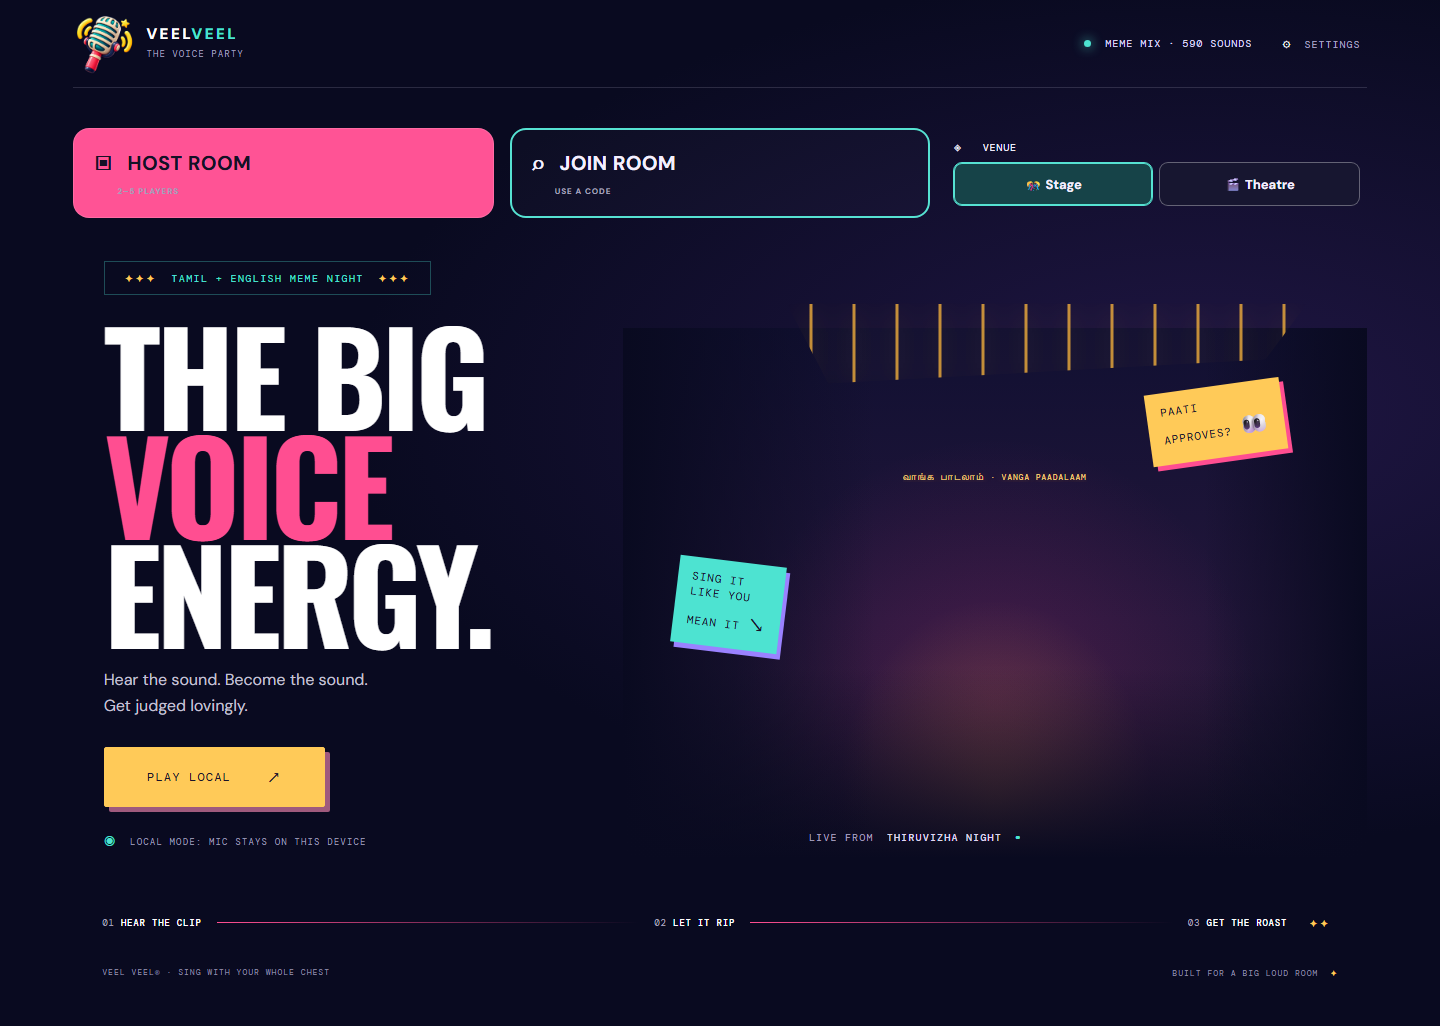
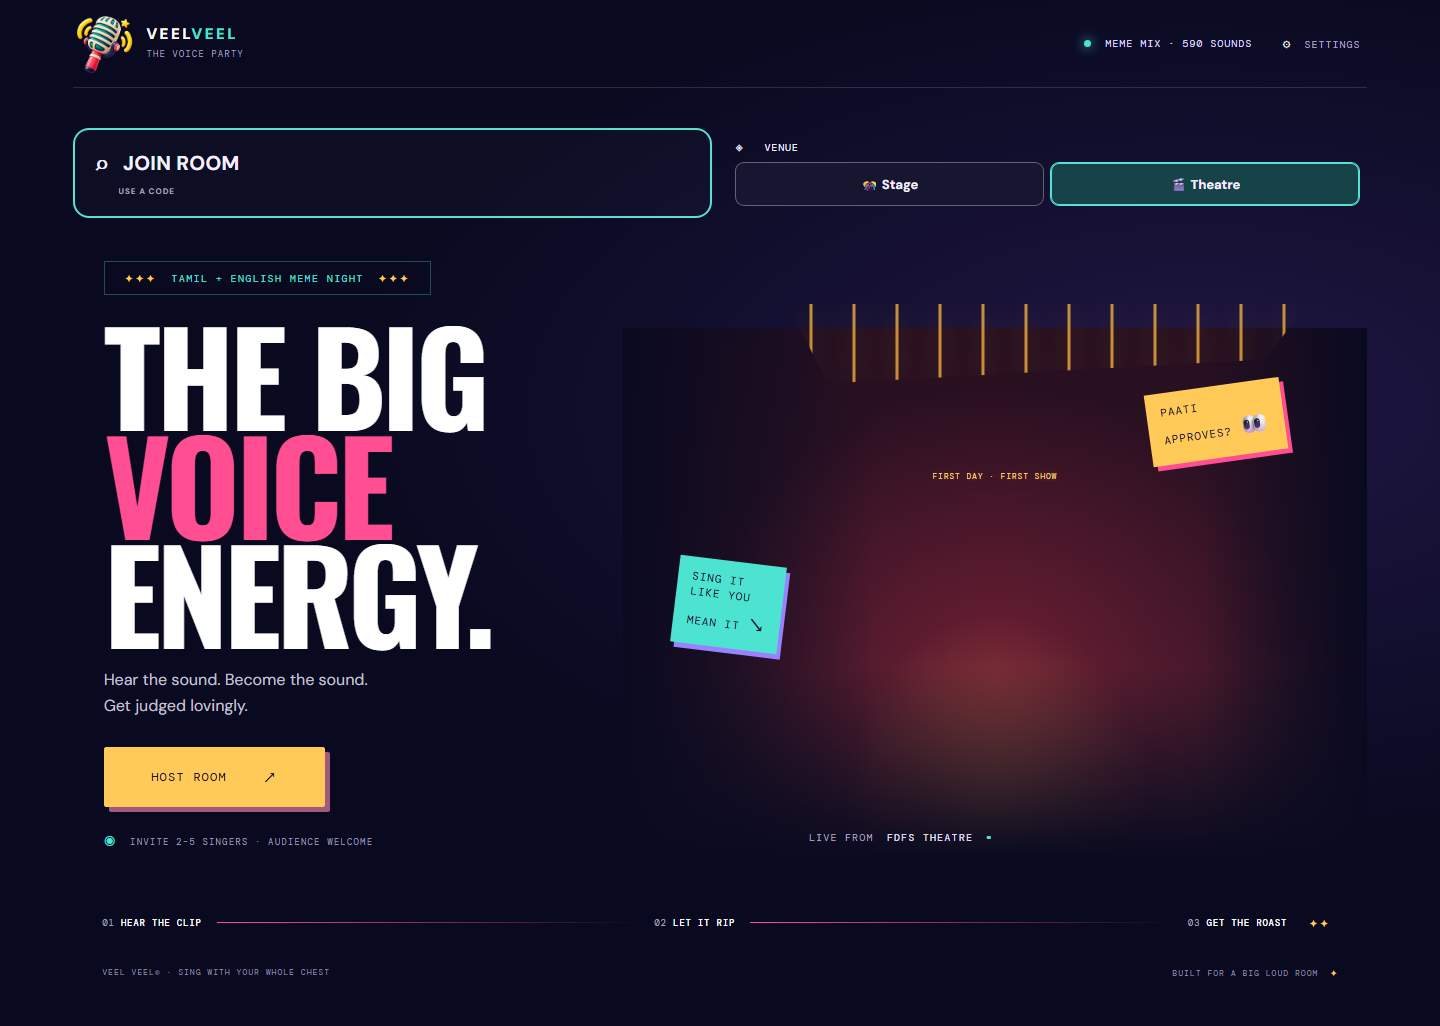
Make room play the home page entry

diff --git a/apps/veel-veel/src/ui/styles.css b/apps/veel-veel/src/ui/styles.css
@@ -2042,3 +2042,10 @@ select:focus-visible {
 .home-actions .mode-link:first-child { background:#ff5395; color:#141126; }
 .home-actions .mode-link:nth-child(2) { border:2px solid #56e2d2; }
 .arena-canvas{position:relative}.arena-reaction{position:absolute;z-index:2;top:18px;left:50%;transform:translateX(-50%);max-width:90%;padding:12px 24px;border-radius:14px;font:800 clamp(14px,2vw,24px) 'DM Sans',sans-serif;text-align:center;box-shadow:0 12px 30px #0005;white-space:nowrap}.arena-reaction small{display:block;font-size:12px;font-weight:500;margin-top:4px}.arena-reaction.ovation{background:#ffda72;color:#282039}.arena-reaction.tomato{background:#ff6581;color:#22132c}.home-actions{display:grid;grid-template-columns:repeat(3,minmax(0,1fr));gap:16px;border:0;padding:18px 0}.home-actions .mode-link{border:1px solid #ffffff25;border-radius:16px;min-height:88px!important;padding:20px;font:700 20px 'DM Sans',sans-serif;letter-spacing:.02em;text-align:left;background:#ffffff05}.home-actions .mode-link small{letter-spacing:.12em;margin-top:10px}.home-actions .mode-link:hover{box-shadow:0 0 0 2px #56e2d2;transform:translateY(-2px)}.home-actions .mode-link:focus-visible{outline:3px solid #ffcd57;outline-offset:4px}.round-intermission{display:flex;align-items:center;gap:18px;flex-wrap:wrap;padding:22px;background:#142b35;border:1px solid #56e2d2;border-radius:16px}.round-intermission strong{color:#56e2d2;font-size:24px}.round-intermission span{color:#c6d3da}.round-intermission button{margin-left:auto;background:#56e2d2;border:0;border-radius:10px;color:#11252f;min-height:48px;padding:12px 22px;font-weight:700}@media(max-width:620px){.home-actions{grid-template-columns:1fr 1fr}.home-actions .theme-trigger{grid-column:1/-1}.arena-reaction{top:10px;padding:8px 14px}.arena-reaction small{font-size:10px}.round-intermission button{margin-left:0}}
+
+.home-actions { grid-template-columns: minmax(0, 1fr) minmax(0, 1fr); }
+.home-actions .mode-link:first-child { background: #ffffff05; color: #f4efff; border: 2px solid #56e2d2; }
+@media (max-width: 620px) {
+  .home-actions { grid-template-columns: 1fr; }
+  .home-actions .mode-link { width: 100%; }
+}

diff --git a/apps/veel-veel/src/ui/App.tsx b/apps/veel-veel/src/ui/App.tsx
@@ -376,15 +376,6 @@ export default function App() {
     }
   }
 
-  async function beginSetup() {
-    if (!pack?.clips.length) {
-      setToast(packError || 'Sound pack is loading.');
-      return;
-    }
-    setScreen('setup');
-    if (!mic) await openMic();
-  }
-
   function enterLobby() {
     if (!mic || !calibrated || !testSaid) {
       void openMic();
@@ -635,12 +626,6 @@ export default function App() {
           <section className="home-actions">
             <button
               className="mode-link"
-              onClick={() => { window.location.href = '/host'; }}
-            >
-              ▣ &nbsp; HOST ROOM <small>2–5 PLAYERS</small>
-            </button>
-            <button
-              className="mode-link"
               onClick={() => { window.location.href = '/join'; }}
             >
               ⌕ &nbsp; JOIN ROOM <small>USE A CODE</small>
@@ -670,12 +655,12 @@ export default function App() {
                 <br />
                 Get judged lovingly.
               </p>
-              <button className="btn btn-primary btn-xl" onClick={() => void beginSetup()}>
-                {en.playLocal}
+              <button className="btn btn-primary btn-xl" onClick={() => { window.location.href = '/host'; }}>
+                HOST ROOM
                 <span>↗</span>
               </button>
               <p className="privacy-note">
-                <span>◉</span> LOCAL MODE: MIC STAYS ON THIS DEVICE
+                <span>◉</span> INVITE 2–5 SINGERS · AUDIENCE WELCOME
               </p>
               {packError && <p className="error-note">{packError}</p>}
             </div>

diff --git a/e2e/home-navigation.spec.ts b/e2e/home-navigation.spec.ts
@@ -1,0 +1,25 @@
+import { expect, test } from '@playwright/test';
+
+test('home leads with room play and remembers the venue', async ({ page }) => {
+  await page.setViewportSize({ width: 1440, height: 980 });
+  await page.goto('/?quality=low&e2e=1');
+  await expect(page.getByRole('button', { name: /PLAY LOCAL/ })).toHaveCount(0);
+  await expect(page.getByRole('button', { name: /HOST ROOM/ })).toBeVisible();
+  await page.getByRole('button', { name: /Theatre/ }).click();
+  await expect(page.getByRole('button', { name: /Theatre/ })).toHaveAttribute('aria-pressed', 'true');
+  await page.reload();
+  await expect(page.getByRole('button', { name: /Theatre/ })).toHaveAttribute('aria-pressed', 'true');
+  await page.screenshot({ path: 'docs/screens/01-home.png', fullPage: true });
+  await page.getByRole('button', { name: /HOST ROOM/ }).click();
+  await expect(page).toHaveURL(/\/host$/);
+  await expect(page.getByRole('button', { name: /CREATE ROOM/ })).toBeVisible();
+});
+
+test('room-first home layout fits a phone', async ({ page }) => {
+  await page.setViewportSize({ width: 390, height: 844 });
+  await page.goto('/?quality=low&e2e=1');
+  await expect(page.getByRole('button', { name: /HOST ROOM/ })).toBeVisible();
+  await expect(page.getByRole('button', { name: /JOIN ROOM/ })).toBeVisible();
+  await expect.poll(() => page.evaluate(() => document.documentElement.scrollWidth <= window.innerWidth)).toBe(true);
+  await page.screenshot({ path: '.cache/mobile-home.png', fullPage: true });
+});

diff --git a/apps/veel-veel/src/content/strings/ta.ts b/apps/veel-veel/src/content/strings/ta.ts
@@ -1,6 +1,5 @@
 export const ta = {
   appName: 'வீல் வீல்',
-  playLocal: 'உள்ளூரில் விளையாடு',
   hostRoom: 'அறையைத் தொடங்கு',
   joinRoom: 'அறையில் சேர்',
   sayTest: '“வீல் வீல்” என்று சொல்லுங்கள்',

diff --git a/apps/veel-veel/src/content/strings/en.ts b/apps/veel-veel/src/content/strings/en.ts
@@ -1,6 +1,5 @@
 export const en = {
   appName: 'Veel Veel',
-  playLocal: 'PLAY LOCAL',
   hostRoom: 'HOST ROOM',
   joinRoom: 'JOIN ROOM',
   dailyStage: 'DAILY STAGE',

diff --git a/docs/STATUS.md b/docs/STATUS.md
@@ -4,7 +4,7 @@ Updated 9 October 2026.
 
 ## Playable now
 
-- Local Mic Drop with one human and four bots, 5/7/10/15 rounds, microphone setup, DSP scoring, Golden Buzzer, starter Chaos Cards, roast playback and podium.
+- Room play is the home-page entry. The earlier standalone Local Mic Drop implementation remains in code but is no longer offered as a player action.
 - Online room Mic Drop for 2–5 ready singers. The host joins as a singer by default, with an audience-only hosting option. Up to 20 audience members can watch and listen without taking singer seats or microphone permission. Audience members can join after a set starts and reconnect with their room token. Share the room URL or QR code.
 - Automatic reference loading, shared listening, three-second preparation, and simultaneous microphone recording. Each take is played to every room member in sequence; the score follows that take. A shared 6.5-second intermission automatically starts the next round and opens the final podium after the chosen 5, 7, 10 or 15 rounds. The host can skip the intermission. Missing submissions have a bounded timeout.
 - Opt-in voice chat with Always on and Push to talk for hosts, singers and audience. Incoming chat can be muted separately from outgoing voice. Listening/recording pauses voice chat at both client and server; it returns for take playback. Keyboard, pointer, focus and page-visibility release are handled.
@@ -23,7 +23,7 @@ Updated 9 October 2026.
 
 - Twenty-six Vitest checks pass, including real-pack DSP, silence/hiss/DC/click rejection, calibrated hum rejection, and relay tests for minimum players, voice gating, score masking, and replay-before-score ordering.
 - TypeScript and ESLint pass. The production build passes. Arena code remains lazy-loaded (about 134 kB gzip); the main bootstrap is about 130 kB gzip.
-- Two-player and five-player Chromium room tests passed through the public HTTPS endpoint, including automatic singing, host participation, full-room rejection, revealed judge scores and reconnect identity. All four browser tests passed through the public endpoint, including a complete five-round local game.
+- Two-player and five-player Chromium room tests passed through the public HTTPS endpoint, including automatic singing, host participation, full-room rejection, revealed judge scores and reconnect identity. Home navigation now checks the room-first actions and Stage/Theatre choice at desktop and phone widths.
 - The October 5 studio update passed the full local-game browser test and all four room tests against a local production build. The added test feeds background hum through real browser microphone capture and verifies zero points for both singers. Mobile recording screenshots use a 390-pixel viewport; physical-phone testing is still manual.
 - A real Three.js page was rendered and captured at `docs/screens/15-public-home-3d.png` without page errors. This headless software-rendering run measured about 15 FPS; it is not an integrated-GPU or mobile performance result. Hardware FPS/draw-call targets remain unverified.
 

diff --git a/README.md b/README.md
@@ -7,14 +7,14 @@
 Uses the checked-in Docker/Render configuration. The sound-bundle URL and checksum are already configured. Sign into Render, review the free service, and deploy.
 
 
-Veel Veel is a browser voice-mimic party game with a procedural festival/theatre arena, local Mic Drop, and room Mic Drop for up to five singers on a reachable network. The host can sing from the host screen or run the room for phone singers. Room hosts can choose simultaneous singing or turns; each singer sees rhythm, melody, energy and vibe scores.
+Veel Veel is a browser voice-mimic party game with a procedural festival/theatre arena and room Mic Drop for up to five singers. The host joins the lineup by default, or can run the room as an audience member. Guests can sing or watch from their phones. Each singer sees rhythm, melody, energy and vibe scores.
 
 ```powershell
 pnpm install
 pnpm dev
 ```
 
-`pnpm dev` indexes clips into the ignored `packs/` folder, then starts the HTTPS game on port 5173 and a secure room relay on port 8787. Open the local address for **Play Local**, **Host Room**, or **Join Room**. The current workspace pack contains 590 Tamil/English meme clips, including 56 labelled vocal additions; a fresh checkout without local source media creates twelve synthesized demo clips. See [local setup](docs/LOCAL_DEV.md), [sound additions](docs/CLIPS.md), [room protocol](docs/PROTOCOL.md), [hosting](docs/DEPLOY.md), and [current status](docs/STATUS.md).
+`pnpm dev` indexes clips into the ignored `packs/` folder, then starts the HTTPS game on port 5173 and a secure room relay on port 8787. Open the local address for **Host Room** or **Join Room**. The current workspace pack contains 590 Tamil/English meme clips, including 56 labelled vocal additions; a fresh checkout without local source media creates twelve synthesized demo clips. See [local setup](docs/LOCAL_DEV.md), [sound additions](docs/CLIPS.md), [room protocol](docs/PROTOCOL.md), [hosting](docs/DEPLOY.md), and [current status](docs/STATUS.md).
 
 Game checks: `pnpm test`, `pnpm lint`, `pnpm typecheck`, `pnpm build`, `pnpm e2e`.
 

diff --git a/docs/LOCAL_DEV.md b/docs/LOCAL_DEV.md
@@ -2,7 +2,7 @@
 
 1. Install Node.js 20.19+ and pnpm 11, then run `pnpm install`.
 2. Run `pnpm dev`. This indexes the source pack, then starts the HTTPS game on port 5173 and the secure room relay on port 8787. The terminal prints a LAN URL and QR code. Use `pnpm pack:index` alone to refresh the pack.
-3. For local Mic Drop, open `https://localhost:5173/`, choose **Play Local**, connect and calibrate the mic, then complete the voice check.
+3. Open `https://localhost:5173/` and choose **Host Room** or **Join Room**. The earlier standalone Local Mic Drop code remains in the repository for now, but it is no longer offered on the home page.
 4. For a room, open `https://localhost:5173/host` on the host screen and create a code. To play solo or sing alongside friends, tap **Join as Singer**, **Connect Microphone**, then **I Am Ready** on the host screen; **Start the Show** becomes available. The host page also shows a QR and LAN join URL for phones. If the computer has more than one network adapter, choose the address that your phones can reach. Up to five singers total can join, including the host. The host chooses **All at once** or **Take turns**, starts a round, and reveals the four judge scores after the takes arrive.
 5. The development certificate is self-signed. On each phone, open both `https://<LAN-IP>:5173/` and `https://<LAN-IP>:8787/health`, then accept or trust the certificate in the browser/OS before using the mic. Keep ports 5173 and 8787 reachable on your private LAN. Headphones reduce audio bleed.
 

diff --git a/docs/DEPLOY.md b/docs/DEPLOY.md
@@ -40,4 +40,4 @@ Production start: `NODE_ENV=production PORT=8787 node apps/server/dist/index.js`
 
 ## Verification
 
-`pnpm test`, `pnpm lint`, `pnpm typecheck`, `pnpm build`, `pnpm e2e`. To test a deployed endpoint, set `VEEL_E2E_BASE_URL` to its HTTPS URL before running Playwright. Tests cover local play, automatic two-player rounds, five-player rooms, sixth-player rejection, host participation, chat muting, and reconnect identity. Relay tests additionally verify score masking and playback-before-score ordering.
+`pnpm test`, `pnpm lint`, `pnpm typecheck`, `pnpm build`, `pnpm e2e`. To test a deployed endpoint, set `VEEL_E2E_BASE_URL` to its HTTPS URL before running Playwright. Tests cover room-first home navigation, automatic two-player rounds, five-player rooms, sixth-player rejection, host participation, chat muting, and reconnect identity. Relay tests additionally verify score masking and playback-before-score ordering.

diff --git a/docs/DECISIONS.md b/docs/DECISIONS.md
@@ -56,3 +56,4 @@
 - **Keep audience separate from singer seats and scores.** Viewers can join at any point and reconnect, while ready, recording and scoring remain singer-only. Limit active audience identities to 20 to bound relay memory and bandwidth.
 - **Make the venue a direct two-button choice.** Stage and Theatre should be visible and understandable without opening a hidden menu; the host's room choice is sent to all clients.
 - **Separate chat listening from speaking.** Muting incoming party chat should not silently disable the user's own mic. Voice chat still pauses during reference playback and recording.
+- **Make room play the only home-page entry.** The owner wants one clear party flow; Host Room is the primary action, while the older Local Mic Drop implementation stays in code for now without a player-facing entry.

diff --git a/AGENTS.md b/AGENTS.md
@@ -24,4 +24,4 @@
 
 ## Current milestone boundary
 
-Local and room Mic Drop are playable. Other modes and public deployment remain open work; do not present them as finished. See `docs/STATUS.md`.
+Room Mic Drop is the player-facing mode and is deployed publicly. The older standalone Local Mic Drop implementation remains in code without a home-page entry. Other modes remain open work; do not present them as finished. See `docs/STATUS.md`.
